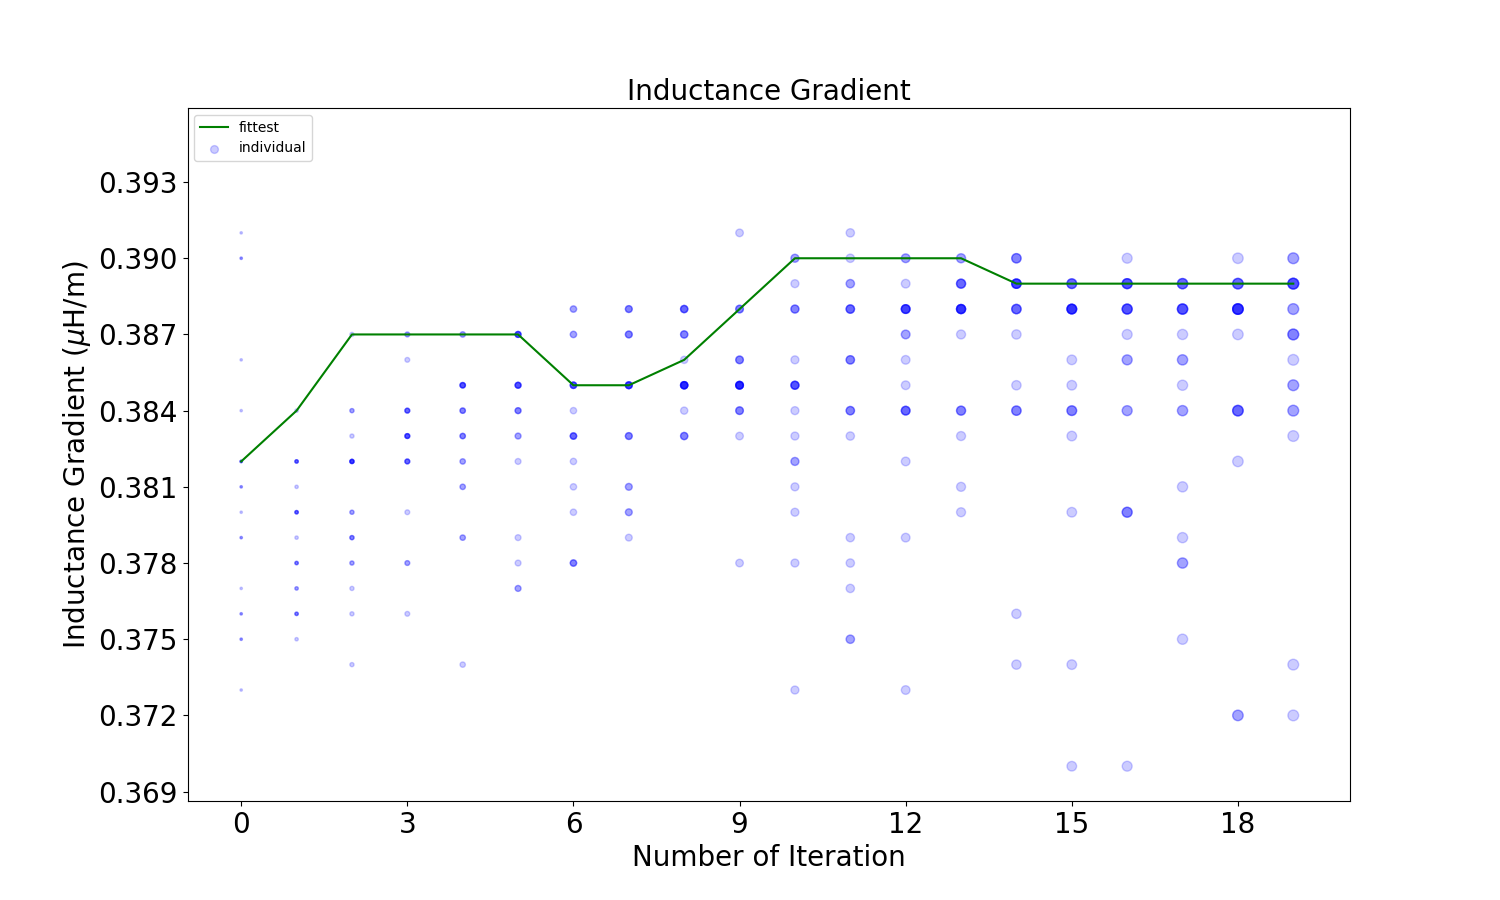
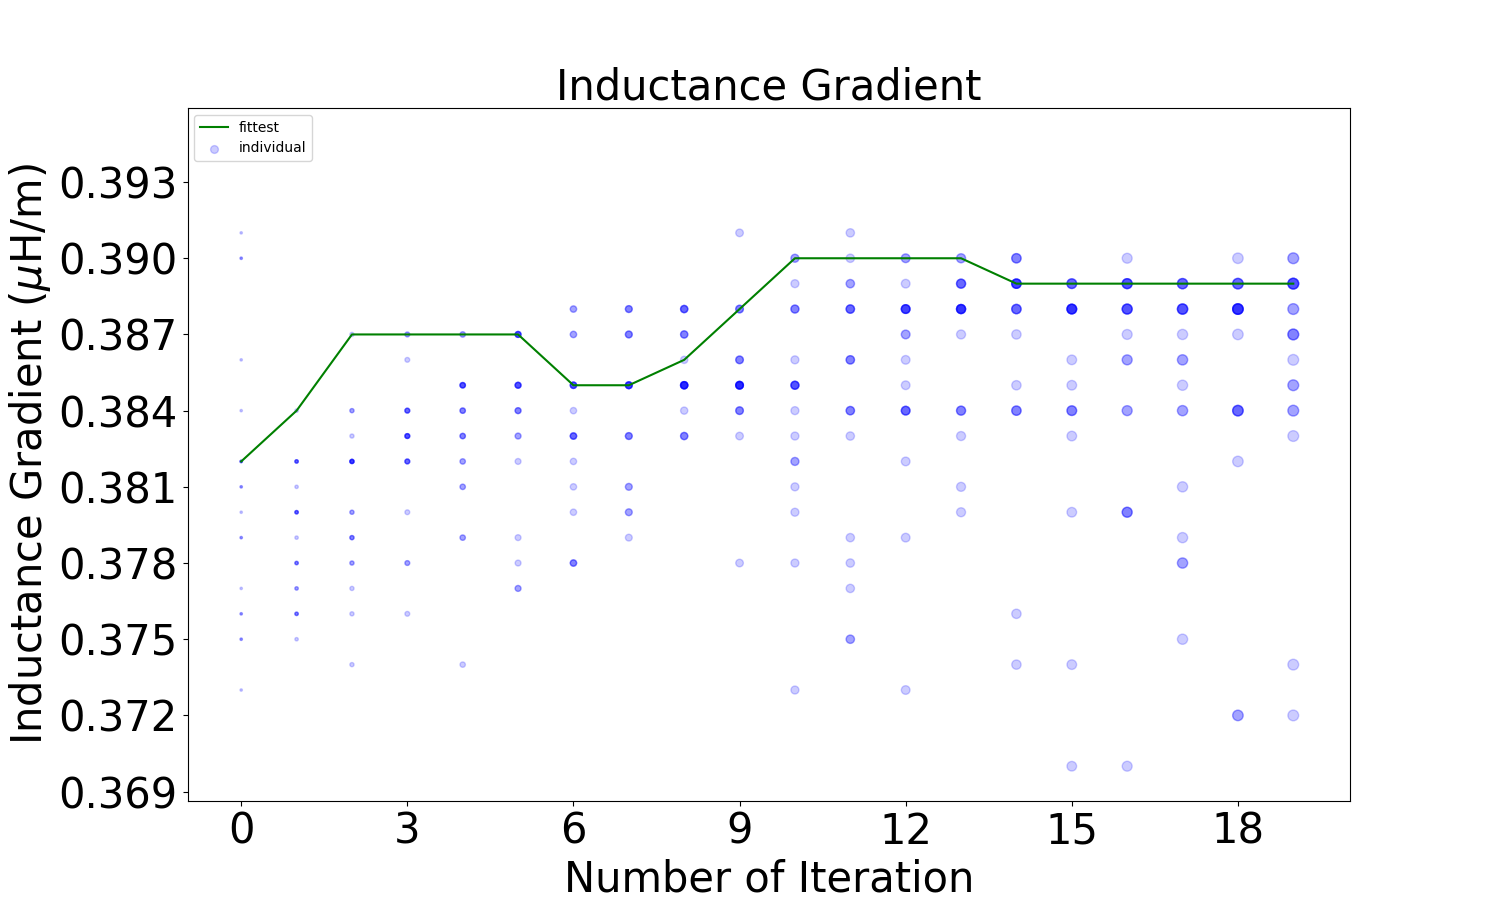
fontsize=30

diff --git a/Plasma Transaction/src/plot.py b/Plasma Transaction/src/plot.py
@@ -19,7 +19,7 @@ def get_all_best(data, iter_size=20, which_one=0):
         bests = bests.append(iter_data.iloc[which_one], ignore_index=True)
     return bests
 
-def plot(data, which='fitness', unit_func=None, iter_size = 20, title='', xlabel='Number of Iteration', ylabel='', fontsize=20, save_path='../plot', show=False):
+def plot(data, which='fitness', unit_func=None, iter_size = 20, title='', xlabel='Number of Iteration', ylabel='', fontsize=30, save_path='../plot', show=False):
     print('Plotting {}...'.format(which))
     fig = plt.figure(figsize=(15.0, 9.0))
     axes = fig.gca()
